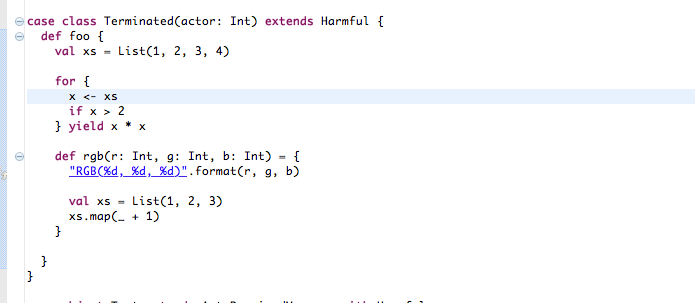
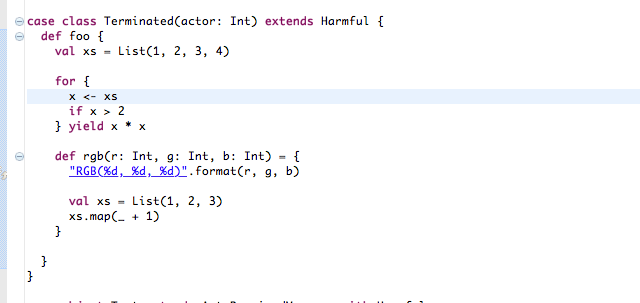
Resized images to their right width.

diff --git a/helium/features/implicit-highlighting/index.rst b/helium/features/implicit-highlighting/index.rst
@@ -9,6 +9,8 @@ Implicit highlighting
 ---------------------
 
 .. image:: images/implicit-format.png
+	:width: 100%
+	:target: ../../_images/implicit-format.png
 
 Notice that the string is underlined, and a marker is added to the left
 gutter. This signals that the method ``format`` was added through an implicit
@@ -16,11 +18,15 @@ conversion. If you move your mouse on the gutter, you will see the actual
 conversion (``augmentString``). 
 
 .. image:: images/hover.png
+	:width: 100%
+	:target: ../../_images/hover.png
 
 There is also a QuickFix available (``CMD-1``)
 that makes the call the implicit conversion explicit!
 
 .. image:: images/quick-fix.png
+	:width: 100%
+	:target: ../../_images/quick-fix.png
 
 Configuration
 -------------
